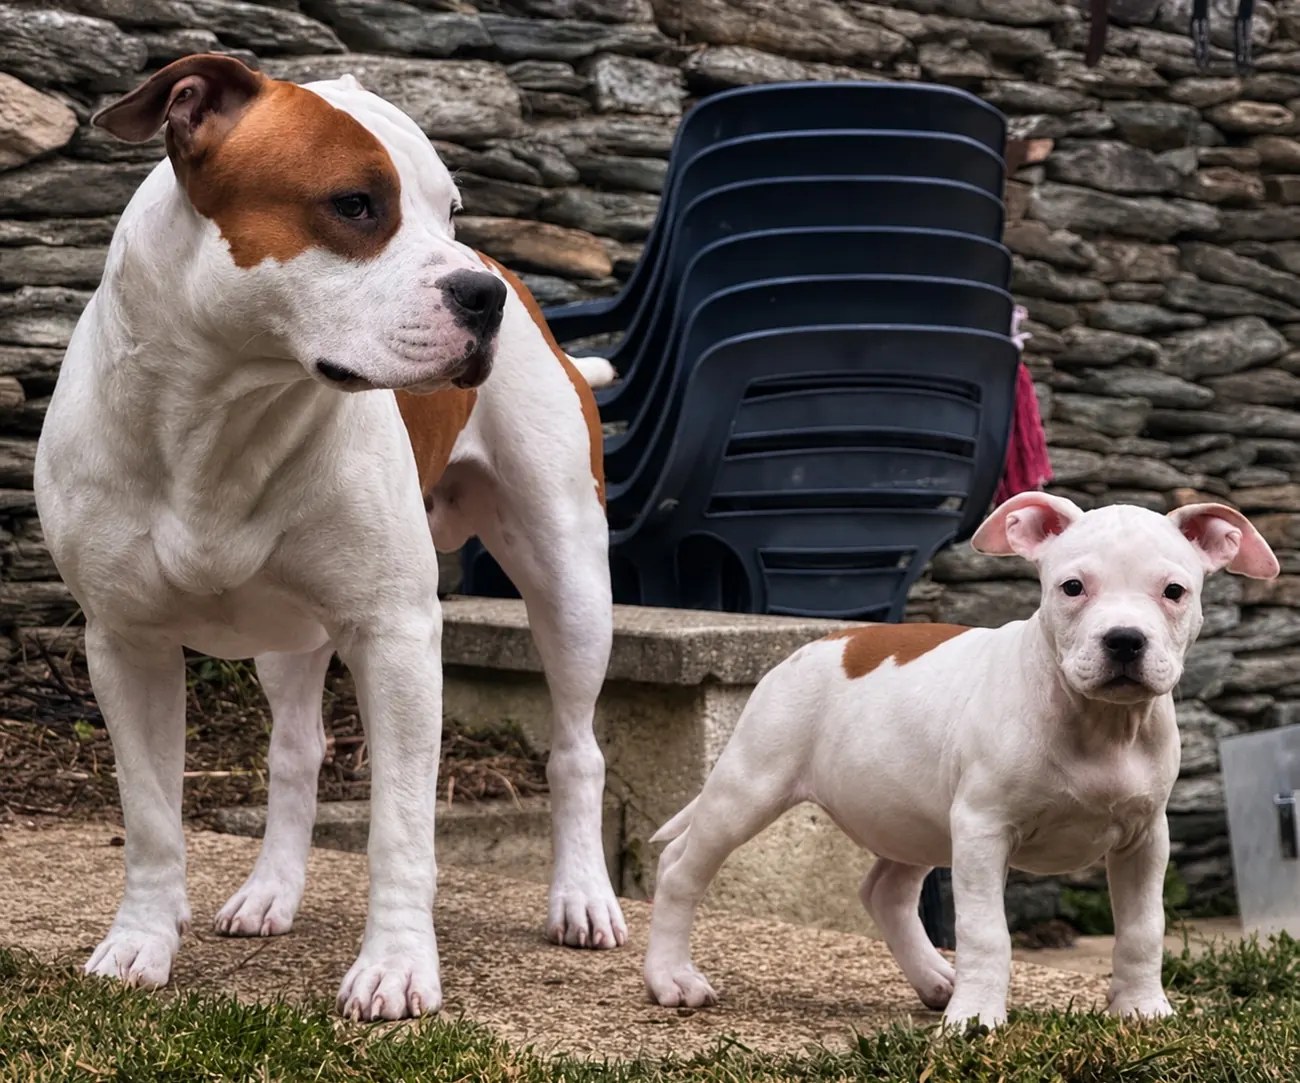
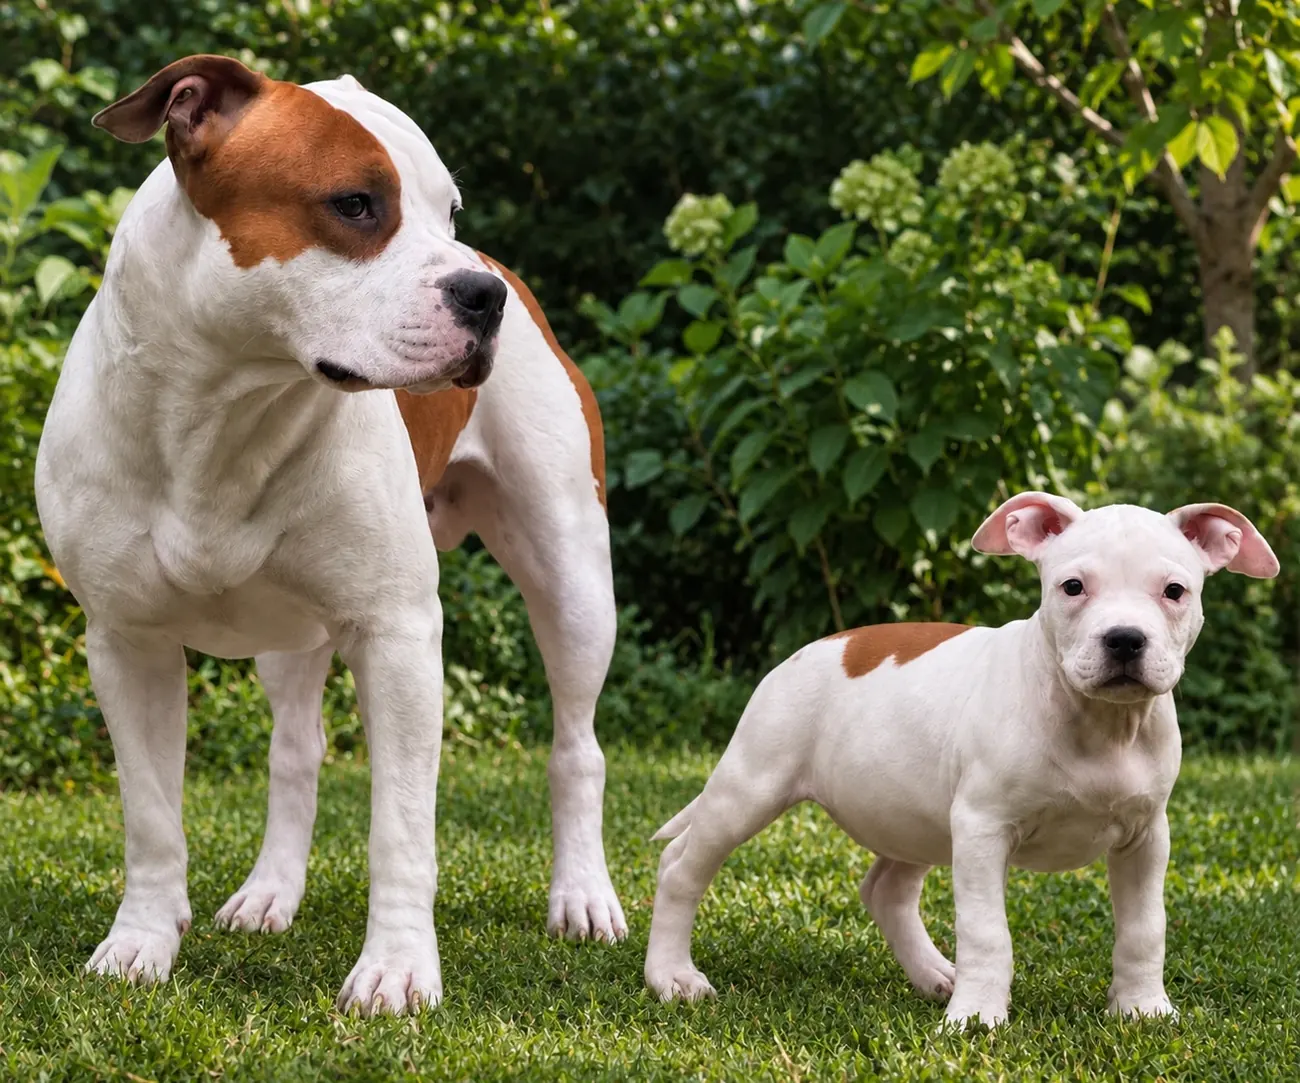
Accueil : photo d'Asgard et Brienne sur fond de jardin
Claude-Session: https://claude.ai/code/session_01Wc2QyaMHJEVbT5eyN7YCPF

diff --git a/index.html b/index.html
@@ -666,7 +666,7 @@ ol.cal li a{font-weight:700;font-size:.92rem}
       </div>
     </div>
     <div class="hero-visual hero-photo">
-      <img src="assets/img/photos/duo-hero-1300.webp" srcset="assets/img/photos/duo-hero-700.webp 700w, assets/img/photos/duo-hero-1300.webp 1300w" sizes="(max-width:950px) 92vw, 560px" width="1300" height="1083" alt="Asgard, Amstaff adulte blanc et fauve, et Brienne, chiot blanc, debout côte à côte devant un mur de pierres." fetchpriority="high" decoding="async">
+      <img src="assets/img/photos/duo-hero-1300.webp" srcset="assets/img/photos/duo-hero-700.webp 700w, assets/img/photos/duo-hero-1300.webp 1300w" sizes="(max-width:950px) 92vw, 560px" width="1300" height="1083" alt="Asgard, Amstaff adulte blanc et fauve, et Brienne, chiot blanc, debout côte à côte sur l’herbe, devant des arbustes." fetchpriority="high" decoding="async">
       <span class="tag tag-a"><b>Asgard</b><span data-born="2025-03-17">18 mois</span></span>
       <span class="tag tag-b"><b>Brienne</b><span data-born="2026-07-02">12 semaines</span></span>
     </div>
